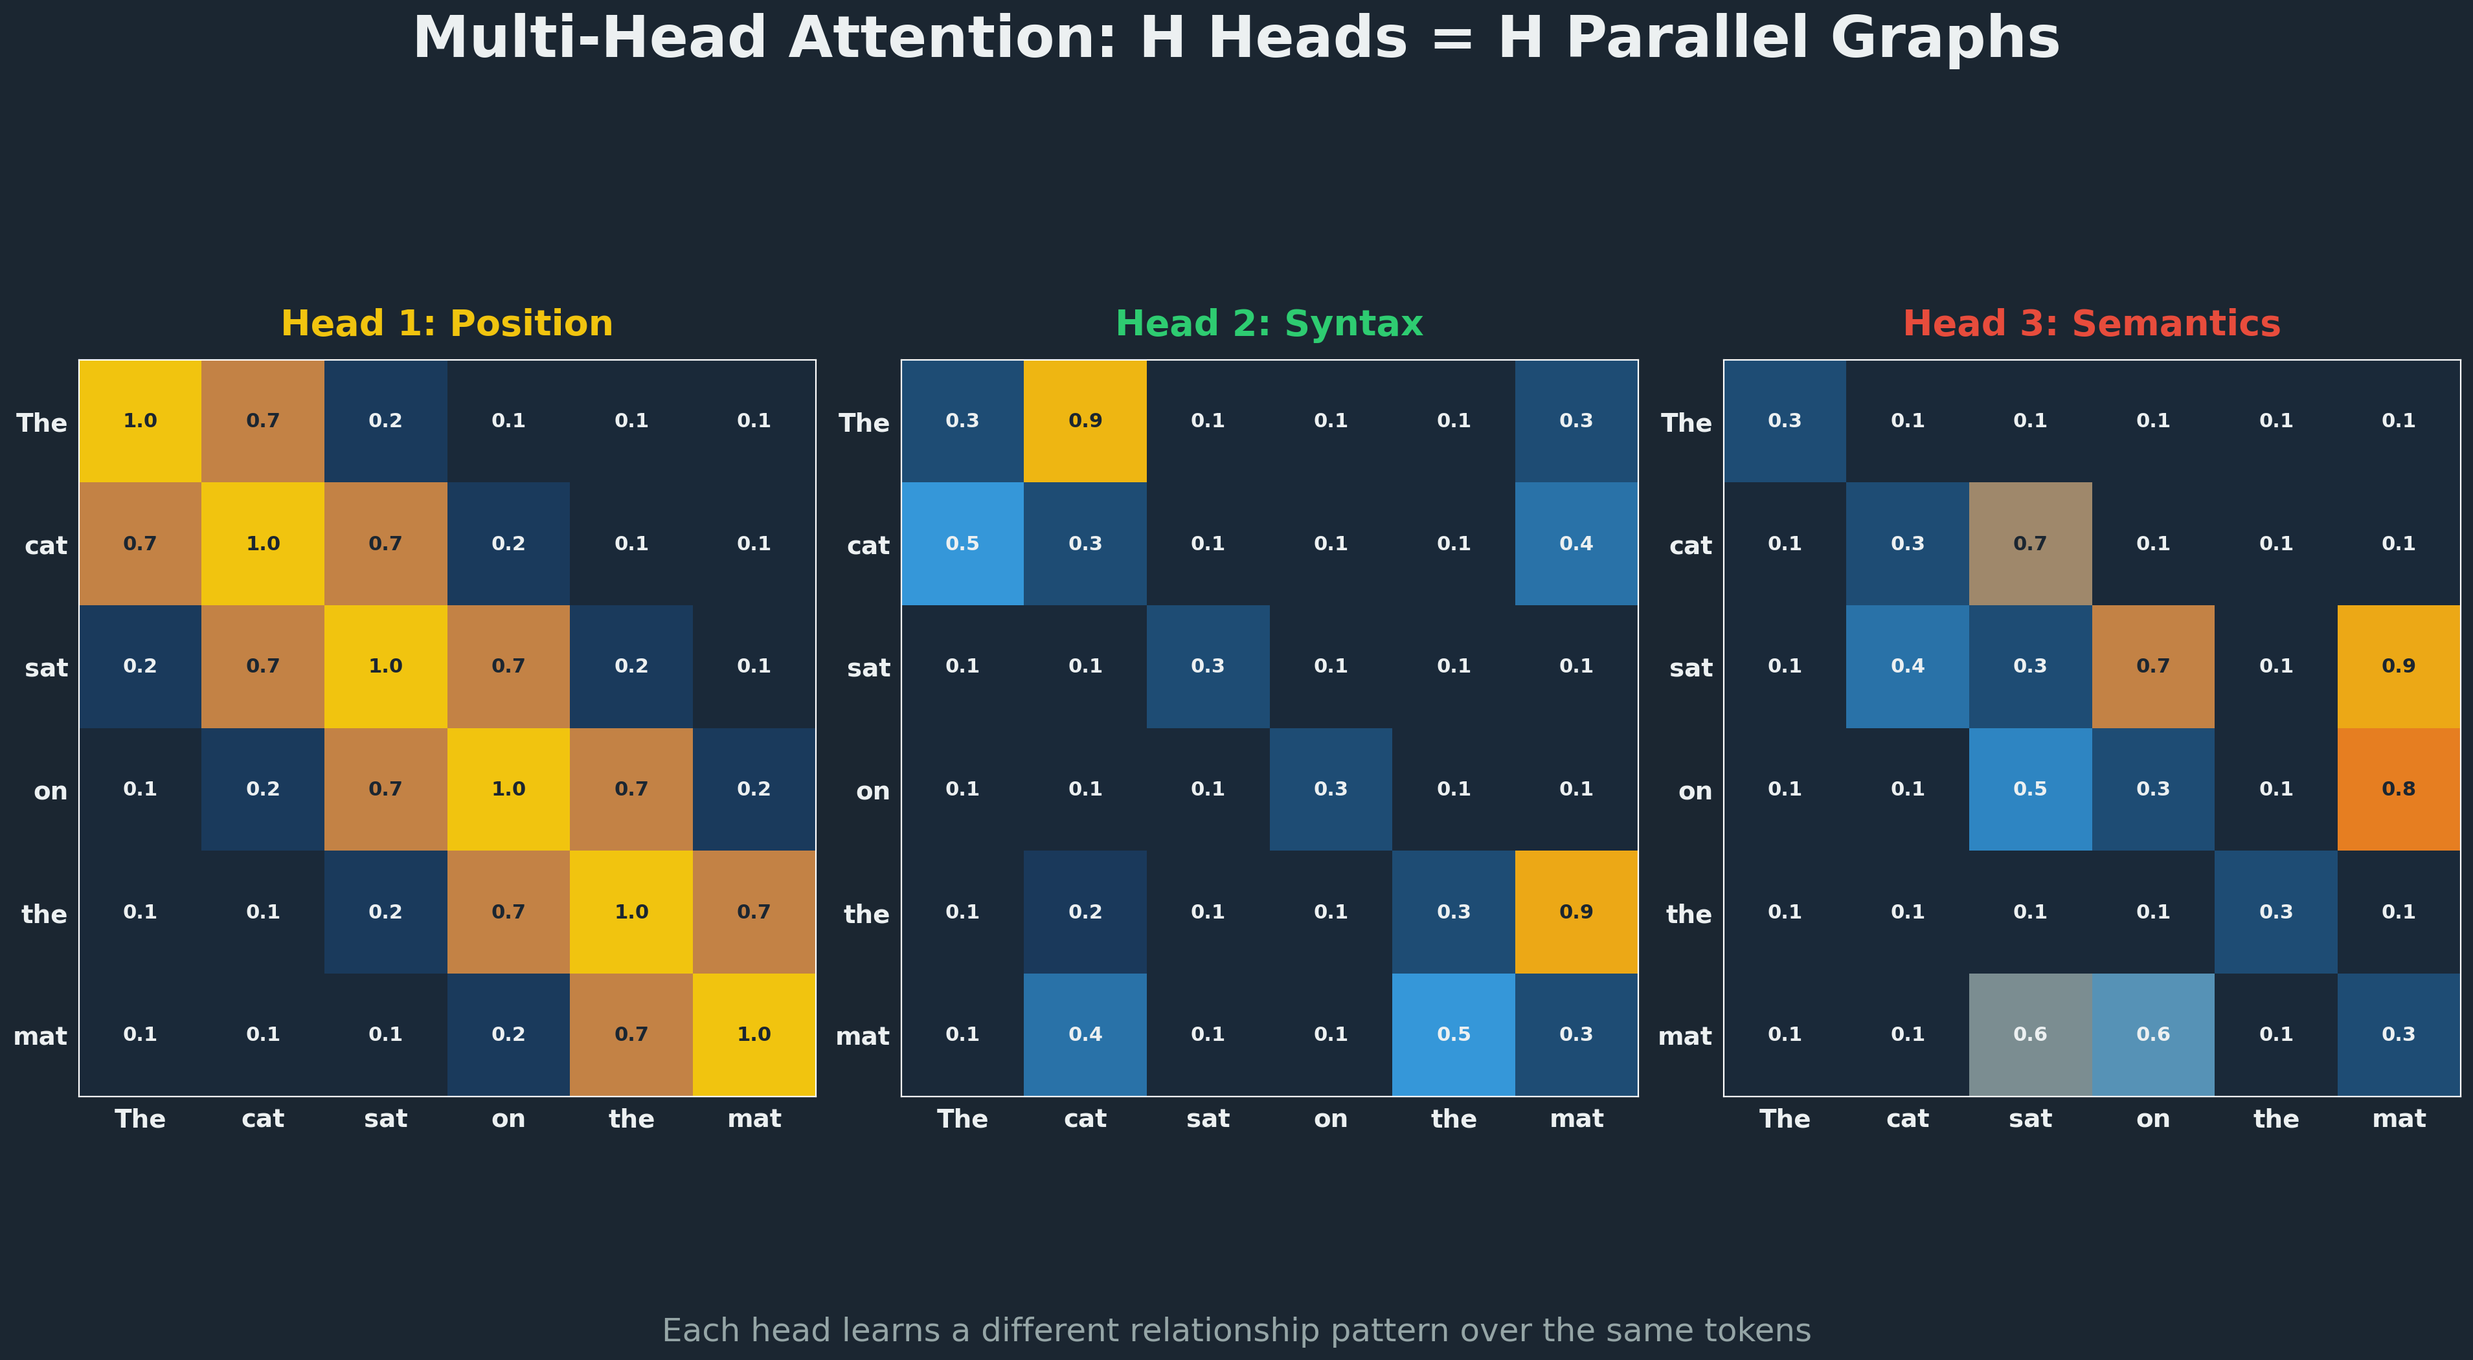
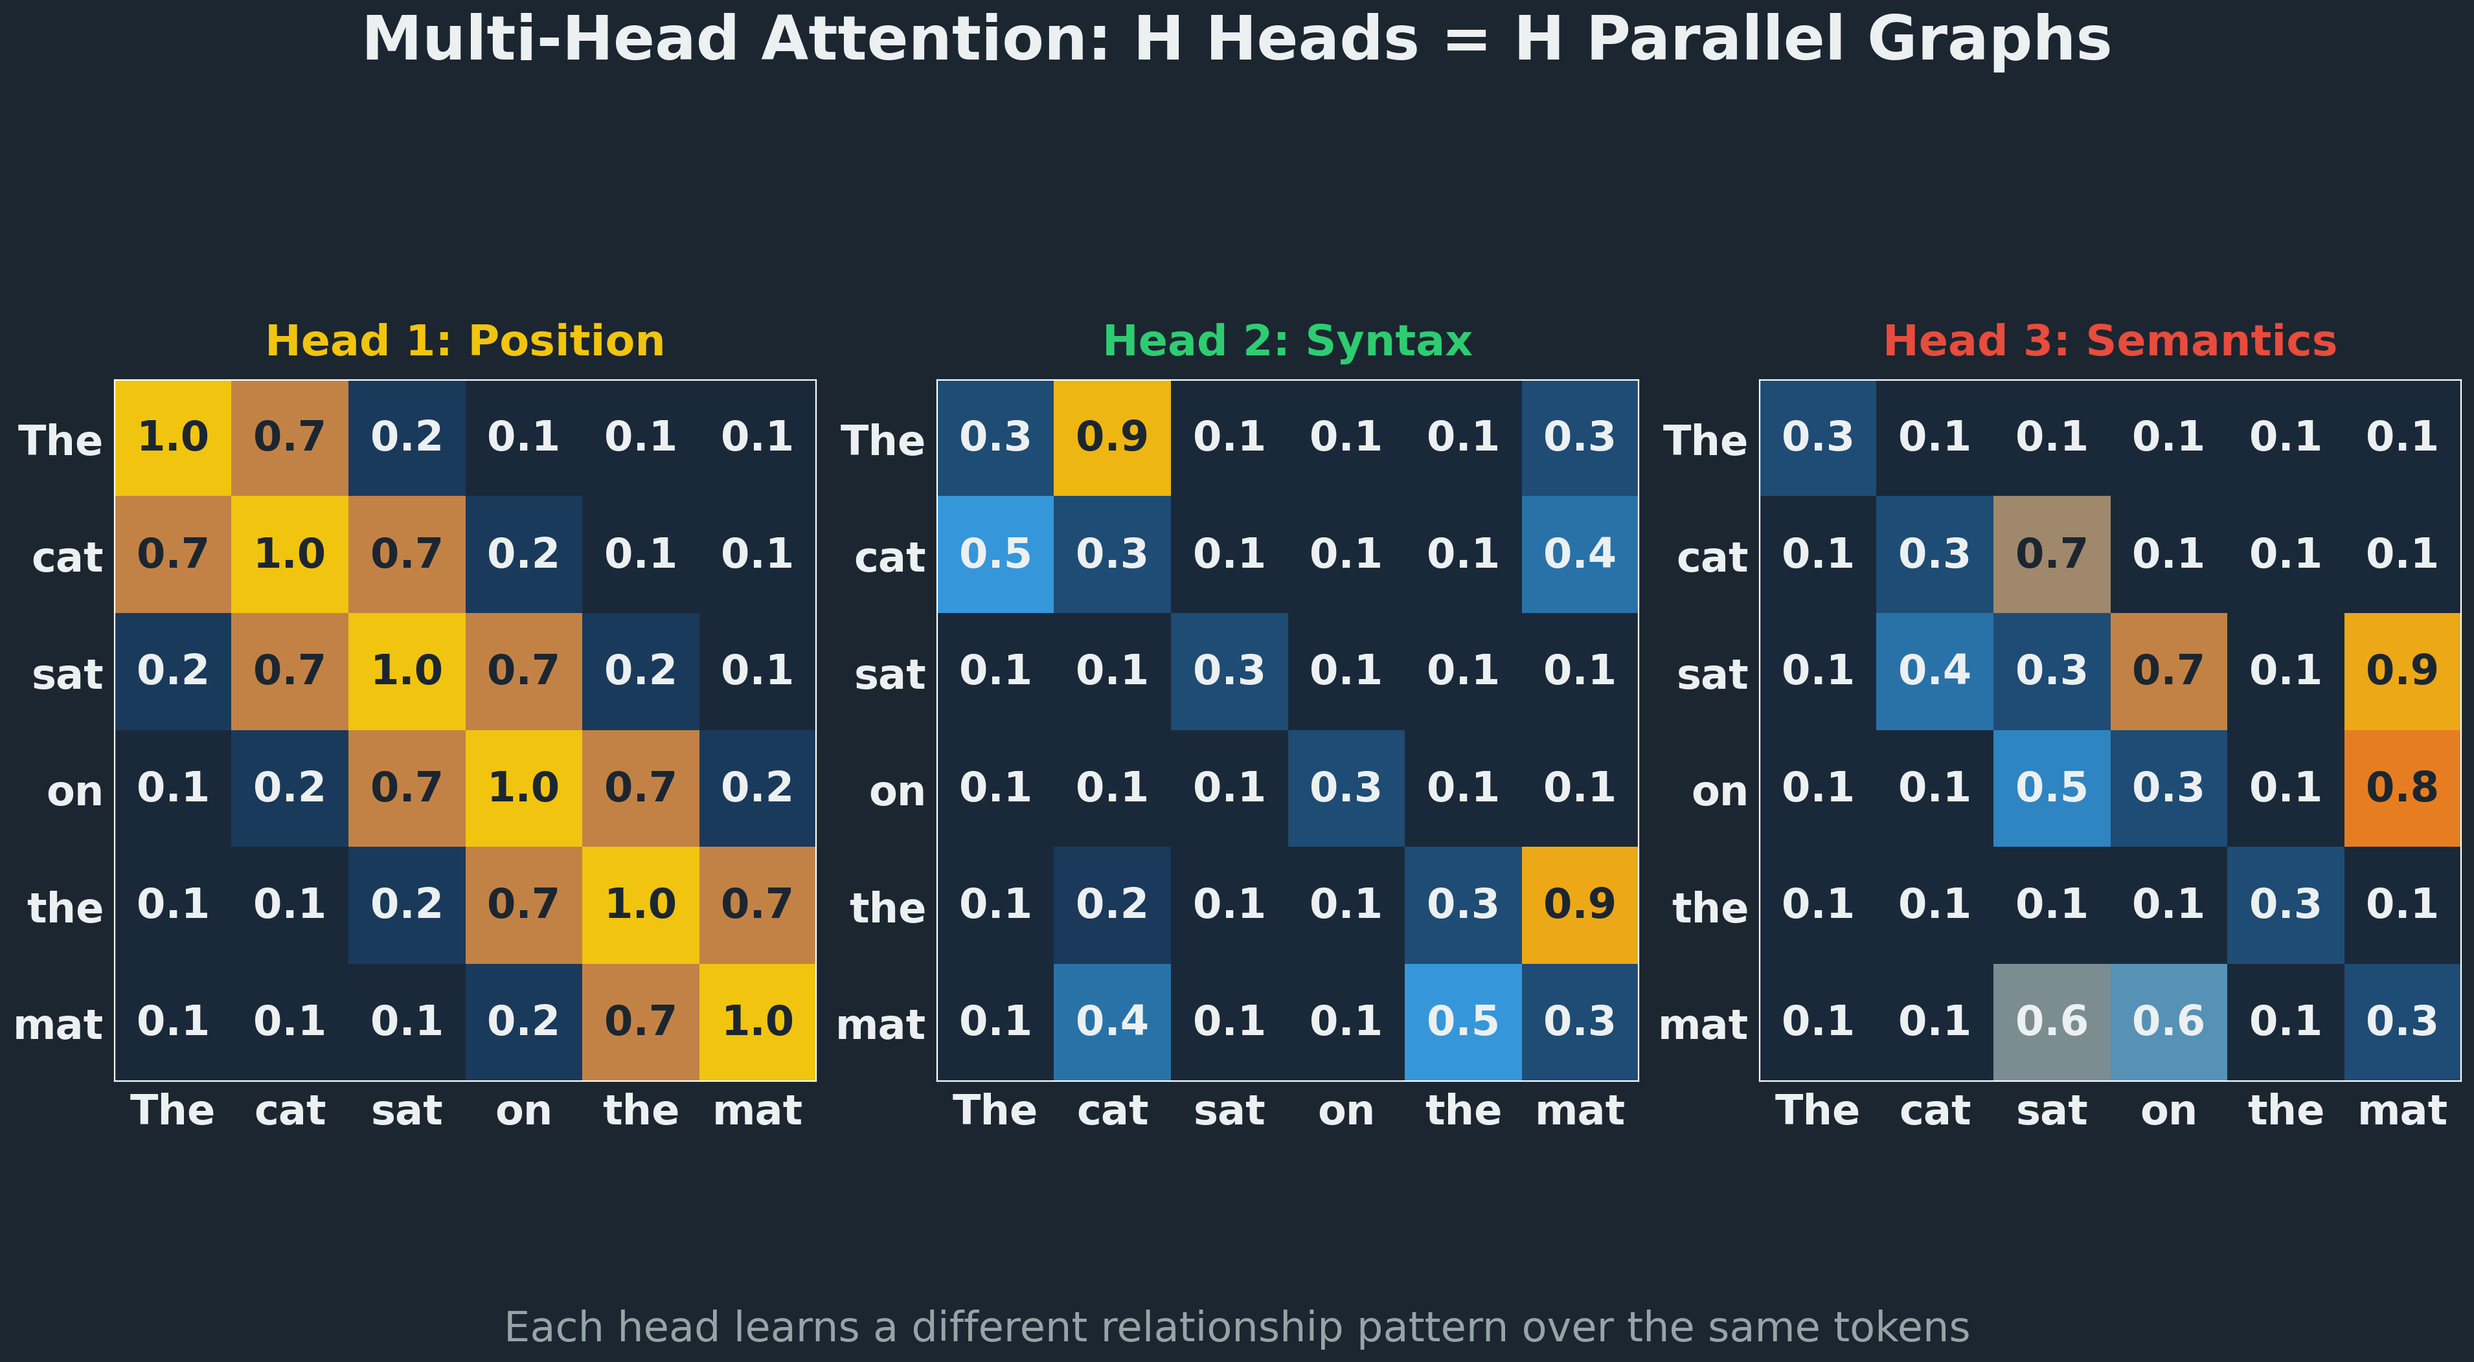
Reduce whitespace and increase chart font sizes for readability
- Halve Reveal.js margin (0.02 → 0.01) and CSS padding (1rem 2rem → 0.5rem 1rem)
- Reduce heading bottom margin (0.75em → 0.35em)
- Set per-slide chart heights: 82vh chart-only, 70vh half-content, 40-48vh dense slides
- Raise minimum matplotlib fontsize to 23pt across all 5 chart scripts (gen_20-24)
- Regenerate all 5 PNG chart images with larger, readable text

Changed region(s): [[0.0, 0.2166, 0.9971, 0.8353], [0.1246, 0.0, 0.8725, 0.0619], [0.187, 0.9591, 0.8102, 0.99]]

diff --git a/slides/lecture-08/index.html b/slides/lecture-08/index.html
@@ -526,7 +526,7 @@
   <figure class="mt-sm" style="text-align:center;">
     <img src="images/24-emergence-phase-transition.png"
          alt="Dual panel showing LLM emergence sigmoid curves alongside Erdos-Renyi phase transition — same mathematical pattern"
-         style="max-height:65vh;">
+         style="max-height:70vh; max-width:98%;">
     <figcaption class="text-sm hl-muted">Same math, different systems</figcaption>
   </figure>
   <p class="fragment fade-up mt-lg text-center text-lg">
@@ -1087,7 +1087,7 @@
     <figure class="fragment fade-in mt-sm" data-fragment-index="4">
       <img src="images/20-attention-heatmap.png"
            alt="6x6 attention heatmap for The cat sat on the mat showing weighted connections between all token pairs"
-           style="max-height:65vh;">
+           style="max-height:40vh; max-width:98%;">
       <figcaption class="text-sm hl-muted">Attention weights = edge weights in the token graph</figcaption>
     </figure>
     <p class="text-sm hl-muted fragment fade-up mt-md" data-fragment-index="5">&darr; Press down for complexity analysis</p>
@@ -1121,7 +1121,7 @@
     <figure class="fragment fade-in mt-sm">
       <img src="images/22-sparse-dense-attention.png"
            alt="Three 16x16 matrices comparing full attention, sliding window, and Longformer sparse attention patterns"
-           style="max-height:65vh;">
+           style="max-height:48vh; max-width:98%;">
       <figcaption class="text-sm hl-muted">Full attention (complete graph) vs. sparse patterns (sparse graphs)</figcaption>
     </figure>
     <p class="fragment fade-up text-sm hl-muted mt-md">
@@ -1144,7 +1144,7 @@
     <figure>
       <img src="images/21-multihead-attention.png"
            alt="Three attention heads showing different edge patterns on the same tokens"
-           style="max-height:75vh;">
+           style="max-height:82vh; max-width:98%;">
       <figcaption class="text-sm hl-muted">Each head discovers different connections — H heads = H parallel graphs</figcaption>
     </figure>
     <aside class="notes">
@@ -1470,7 +1470,7 @@
   <figure class="fragment fade-in mt-sm" data-fragment-index="6">
     <img src="images/23-gnn-vs-transformer.png"
          alt="Side-by-side comparison: GNN message passing on sparse graph vs. Transformer attention on complete graph"
-         style="max-height:65vh;">
+         style="max-height:48vh; max-width:98%;">
     <figcaption class="text-sm hl-muted">Both architectures: message passing along graph edges</figcaption>
   </figure>
   <p class="fragment fade-up text-sm hl-muted mt-md" data-fragment-index="7">Both are message-passing on graphs &mdash; they differ in which graph they use.</p>
@@ -1679,7 +1679,7 @@
     center: true,
     width: 1920,
     height: 1080,
-    margin: 0.02,
+    margin: 0.01,
     minScale: 0.2,
     maxScale: 2.0,
     plugins: [RevealNotes, RevealMath.KaTeX],

diff --git a/slides/lecture-08/css/theme-3b1b.css b/slides/lecture-08/css/theme-3b1b.css
@@ -84,7 +84,7 @@
 /* --- Individual section / slide --- */
 .reveal .slides section {
   background: var(--bg-dark);
-  padding: 1rem 2rem;
+  padding: 0.5rem 1rem;
   max-width: none;
   width: 100%;
   margin: 0 auto;
@@ -111,7 +111,7 @@
   color: var(--text-primary);
   letter-spacing: -0.02em;
   line-height: 1.25;
-  margin: 0 0 0.75em 0;
+  margin: 0 0 0.35em 0;
   text-shadow: none;
   word-break: break-word;
 }

diff --git a/slides/lecture-08/python/gen_24_emergence.py b/slides/lecture-08/python/gen_24_emergence.py
@@ -57,16 +57,16 @@ def draw_llm_panel(ax):
     ax.set_xscale('log')
     ax.set_xlim(1e8, 1e12)
     ax.set_ylim(-5, 105)
-    ax.set_xlabel('Model Parameters', fontsize=18, color=TEXT, labelpad=10)
-    ax.set_ylabel('Task Accuracy (%)', fontsize=18, color=TEXT, labelpad=10)
-    ax.set_title('LLM Emergent Abilities', fontsize=24, fontweight='bold',
+    ax.set_xlabel('Model Parameters', fontsize=23, color=TEXT, labelpad=10)
+    ax.set_ylabel('Task Accuracy (%)', fontsize=23, color=TEXT, labelpad=10)
+    ax.set_title('LLM Emergent Abilities', fontsize=26, fontweight='bold',
                  color=YELLOW, pad=14)
-    ax.legend(fontsize=15, loc='upper left', frameon=False, labelcolor=TEXT)
-    ax.tick_params(colors=MUTED, labelsize=13)
+    ax.legend(fontsize=23, loc='upper left', frameon=False, labelcolor=TEXT)
+    ax.tick_params(colors=MUTED, labelsize=23)
     ax.grid(True, alpha=0.15, color=MUTED)
 
     # Annotation at critical region
-    ax.annotate('Critical\nthreshold', xy=(1e10, 50), fontsize=14,
+    ax.annotate('Critical\nthreshold', xy=(1e10, 50), fontsize=23,
                 color=MUTED, ha='center', va='bottom',
                 style='italic')
 
@@ -91,19 +91,19 @@ def draw_er_panel(ax):
 
     # Labels for phases
     ax.text(0.004, 15, 'Many small\ncomponents',
-            fontsize=15, color=MUTED, ha='center', style='italic')
+            fontsize=23, color=MUTED, ha='center', style='italic')
     ax.text(0.018, 85, 'Giant component\nemerges',
-            fontsize=15, color=BLUE, ha='center', fontweight='bold')
+            fontsize=23, color=BLUE, ha='center', fontweight='bold')
 
     ax.set_xlim(0, 0.025)
     ax.set_ylim(-5, 105)
-    ax.set_xlabel('Edge Probability $p$', fontsize=18, color=TEXT, labelpad=10)
-    ax.set_ylabel('Giant Component Fraction (%)', fontsize=18, color=TEXT,
+    ax.set_xlabel('Edge Probability $p$', fontsize=23, color=TEXT, labelpad=10)
+    ax.set_ylabel('Giant Component Fraction (%)', fontsize=23, color=TEXT,
                   labelpad=10)
     ax.set_title('Erd\u0151s\u2013R\u00e9nyi Phase Transition',
-                 fontsize=24, fontweight='bold', color=BLUE, pad=14)
-    ax.legend(fontsize=15, loc='upper left', frameon=False, labelcolor=TEXT)
-    ax.tick_params(colors=MUTED, labelsize=13)
+                 fontsize=26, fontweight='bold', color=BLUE, pad=14)
+    ax.legend(fontsize=23, loc='upper left', frameon=False, labelcolor=TEXT)
+    ax.tick_params(colors=MUTED, labelsize=23)
     ax.grid(True, alpha=0.15, color=MUTED)
 
 
@@ -123,7 +123,7 @@ def main():
 
     fig.text(0.5, 0.02,
              'Phase transitions explain why abilities "suddenly" appear at scale',
-             ha='center', fontsize=18, color=MUTED)
+             ha='center', fontsize=23, color=MUTED)
 
     plt.tight_layout(rect=[0, 0.05, 1, 0.92])
 

diff --git a/slides/lecture-08/python/gen_23_gnn_vs_transformer.py b/slides/lecture-08/python/gen_23_gnn_vs_transformer.py
@@ -73,16 +73,16 @@ def draw_gnn_panel(ax):
                            edgecolors='white', linewidths=2.5)
 
     # Labels
-    nx.draw_networkx_labels(G, pos, ax=ax, font_size=18, font_weight='bold',
+    nx.draw_networkx_labels(G, pos, ax=ax, font_size=23, font_weight='bold',
                             font_color=BG)
 
-    ax.set_title('GNN: Message Passing', fontsize=24, fontweight='bold',
+    ax.set_title('GNN: Message Passing', fontsize=26, fontweight='bold',
                  color=TEAL, pad=18)
 
     # Formula below graph
     ax.text(0.5, -0.08,
             r'$h_v^{(l+1)} = \sigma\!\left(\sum_{u \in N(v)} W\, h_u^{(l)}\right)$',
-            transform=ax.transAxes, fontsize=18, color=TEXT,
+            transform=ax.transAxes, fontsize=23, color=TEXT,
             ha='center', va='top',
             bbox=dict(boxstyle='round,pad=0.4', facecolor='#1e3044',
                       edgecolor=TEAL, alpha=0.9))
@@ -123,16 +123,16 @@ def draw_transformer_panel(ax):
                            node_color=[BLUE] * 5, node_size=900,
                            edgecolors='white', linewidths=2.5)
 
-    nx.draw_networkx_labels(G, pos, ax=ax, font_size=18, font_weight='bold',
+    nx.draw_networkx_labels(G, pos, ax=ax, font_size=23, font_weight='bold',
                             font_color=BG)
 
-    ax.set_title('Transformer: Attention', fontsize=24, fontweight='bold',
+    ax.set_title('Transformer: Attention', fontsize=26, fontweight='bold',
                  color=YELLOW, pad=18)
 
     # Formula
     ax.text(0.5, -0.08,
             r'$\mathrm{Attn}(Q,K,V) = \mathrm{softmax}\!\left(\frac{QK^T}{\sqrt{d_k}}\right)\!V$',
-            transform=ax.transAxes, fontsize=18, color=TEXT,
+            transform=ax.transAxes, fontsize=23, color=TEXT,
             ha='center', va='top',
             bbox=dict(boxstyle='round,pad=0.4', facecolor='#1e3044',
                       edgecolor=YELLOW, alpha=0.9))
@@ -158,7 +158,7 @@ def main():
 
     fig.text(0.5, 0.02,
              'Sparse neighbors (GNN) vs. full attention (Transformer) \u2014 same update rule, different graphs',
-             ha='center', fontsize=18, color=MUTED)
+             ha='center', fontsize=23, color=MUTED)
 
     plt.tight_layout(rect=[0, 0.05, 1, 0.92])
 

diff --git a/slides/lecture-08/python/gen_20_attention_heatmap.py b/slides/lecture-08/python/gen_20_attention_heatmap.py
@@ -85,9 +85,9 @@ def main():
 
     # Axis labels
     ax.set_xticks(range(N))
-    ax.set_xticklabels(WORDS, fontsize=22, fontweight='bold', color=TEXT)
+    ax.set_xticklabels(WORDS, fontsize=24, fontweight='bold', color=TEXT)
     ax.set_yticks(range(N))
-    ax.set_yticklabels(WORDS, fontsize=22, fontweight='bold', color=TEXT)
+    ax.set_yticklabels(WORDS, fontsize=24, fontweight='bold', color=TEXT)
     ax.tick_params(axis='both', length=0, pad=10)
 
     # Move x-axis labels to top as well
@@ -101,12 +101,12 @@ def main():
             val = mat[i, j]
             txt_color = BG if val > 0.6 else TEXT
             ax.text(j, i, f'{val:.2f}', ha='center', va='center',
-                    fontsize=16, fontweight='bold', color=txt_color)
+                    fontsize=23, fontweight='bold', color=txt_color)
 
     # Colorbar
     cbar = fig.colorbar(im, ax=ax, fraction=0.046, pad=0.04)
-    cbar.set_label('Attention Weight', fontsize=18, color=TEXT, labelpad=12)
-    cbar.ax.tick_params(labelsize=14, colors=TEXT)
+    cbar.set_label('Attention Weight', fontsize=23, color=TEXT, labelpad=12)
+    cbar.ax.tick_params(labelsize=23, colors=TEXT)
 
     # Title
     fig.suptitle('Attention Weights = Adjacency Matrix',
@@ -114,7 +114,7 @@ def main():
 
     # Subtitle
     ax.set_xlabel('"The cat sat on the mat" \u2014 each cell is an edge weight',
-                  fontsize=18, color=MUTED, labelpad=15)
+                  fontsize=23, color=MUTED, labelpad=15)
 
     plt.savefig(OUTPUT_PATH, dpi=200, bbox_inches='tight',
                 facecolor=BG, edgecolor='none')

diff --git a/slides/lecture-08/python/gen_21_multihead_attention.py b/slides/lecture-08/python/gen_21_multihead_attention.py
@@ -116,12 +116,12 @@ def main():
         im = ax.imshow(mat, cmap=cmap, vmin=0, vmax=1, aspect='equal')
 
         ax.set_xticks(range(N))
-        ax.set_xticklabels(WORDS, fontsize=14, fontweight='bold', color=TEXT)
+        ax.set_xticklabels(WORDS, fontsize=23, fontweight='bold', color=TEXT)
         ax.set_yticks(range(N))
-        ax.set_yticklabels(WORDS, fontsize=14, fontweight='bold', color=TEXT)
+        ax.set_yticklabels(WORDS, fontsize=23, fontweight='bold', color=TEXT)
         ax.tick_params(axis='both', length=0, pad=6)
 
-        ax.set_title(title, fontsize=20, fontweight='bold', color=accent, pad=14)
+        ax.set_title(title, fontsize=24, fontweight='bold', color=accent, pad=14)
 
         # Annotate cells
         for i in range(N):
@@ -129,14 +129,14 @@ def main():
                 val = mat[i, j]
                 txt_color = BG if val > 0.6 else TEXT
                 ax.text(j, i, f'{val:.1f}', ha='center', va='center',
-                        fontsize=11, fontweight='bold', color=txt_color)
+                        fontsize=23, fontweight='bold', color=txt_color)
 
     fig.suptitle('Multi-Head Attention: H Heads = H Parallel Graphs',
-                 fontsize=32, fontweight='bold', color=TEXT, y=0.97)
+                 fontsize=34, fontweight='bold', color=TEXT, y=0.97)
 
     fig.text(0.5, 0.02,
              'Each head learns a different relationship pattern over the same tokens',
-             ha='center', fontsize=18, color=MUTED)
+             ha='center', fontsize=23, color=MUTED)
 
     plt.tight_layout(rect=[0, 0.05, 1, 0.92])
 

diff --git a/slides/lecture-08/python/gen_22_sparse_dense_attention.py b/slides/lecture-08/python/gen_22_sparse_dense_attention.py
@@ -87,14 +87,14 @@ def main():
         total = N * N
         pct = edges / total * 100
 
-        ax.set_title(title, fontsize=22, fontweight='bold', color=accent, pad=14)
-        ax.set_xlabel(f'{edges} edges ({pct:.0f}%)', fontsize=16,
+        ax.set_title(title, fontsize=24, fontweight='bold', color=accent, pad=14)
+        ax.set_xlabel(f'{edges} edges ({pct:.0f}%)', fontsize=23,
                       color=TEXT, labelpad=10)
 
         # Tick styling
         ax.set_xticks(range(0, N, 4))
         ax.set_yticks(range(0, N, 4))
-        ax.tick_params(axis='both', colors=MUTED, labelsize=11, length=0)
+        ax.tick_params(axis='both', colors=MUTED, labelsize=23, length=0)
 
         # Subtle grid
         for k in range(N + 1):
@@ -106,7 +106,7 @@ def main():
 
     fig.text(0.5, 0.02,
              'Reducing edges from O(n\u00b2) to O(n) cuts compute while preserving key connections',
-             ha='center', fontsize=18, color=MUTED)
+             ha='center', fontsize=23, color=MUTED)
 
     plt.tight_layout(rect=[0, 0.05, 1, 0.92])
 
